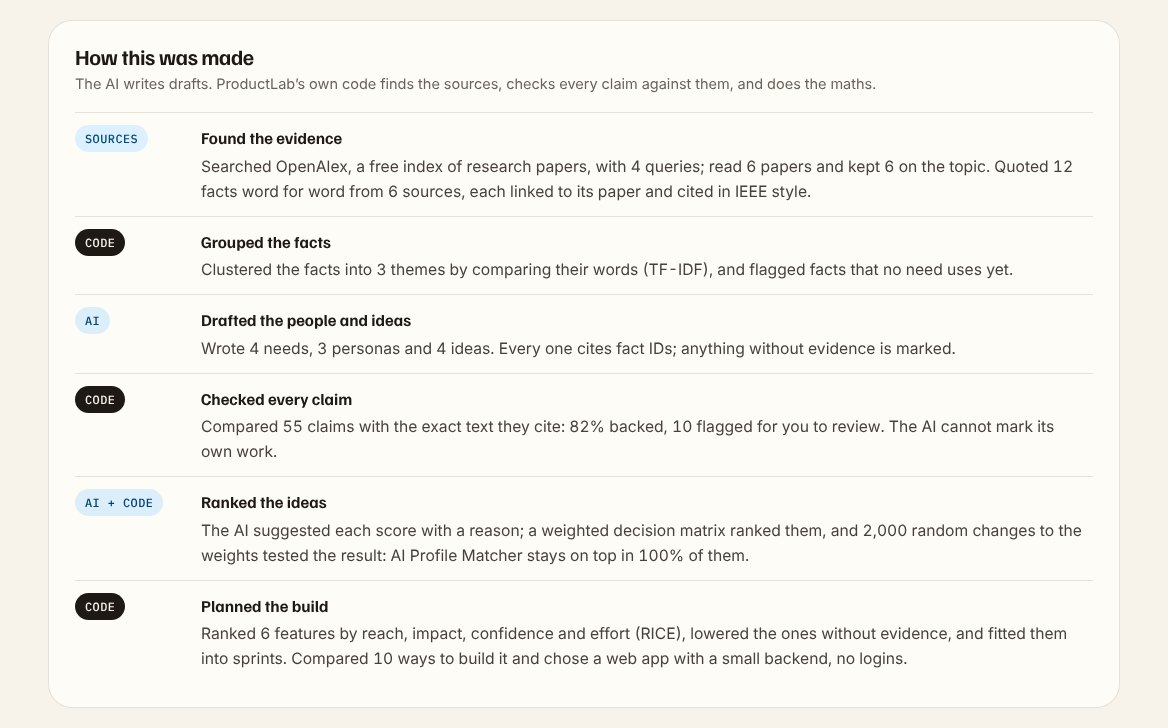
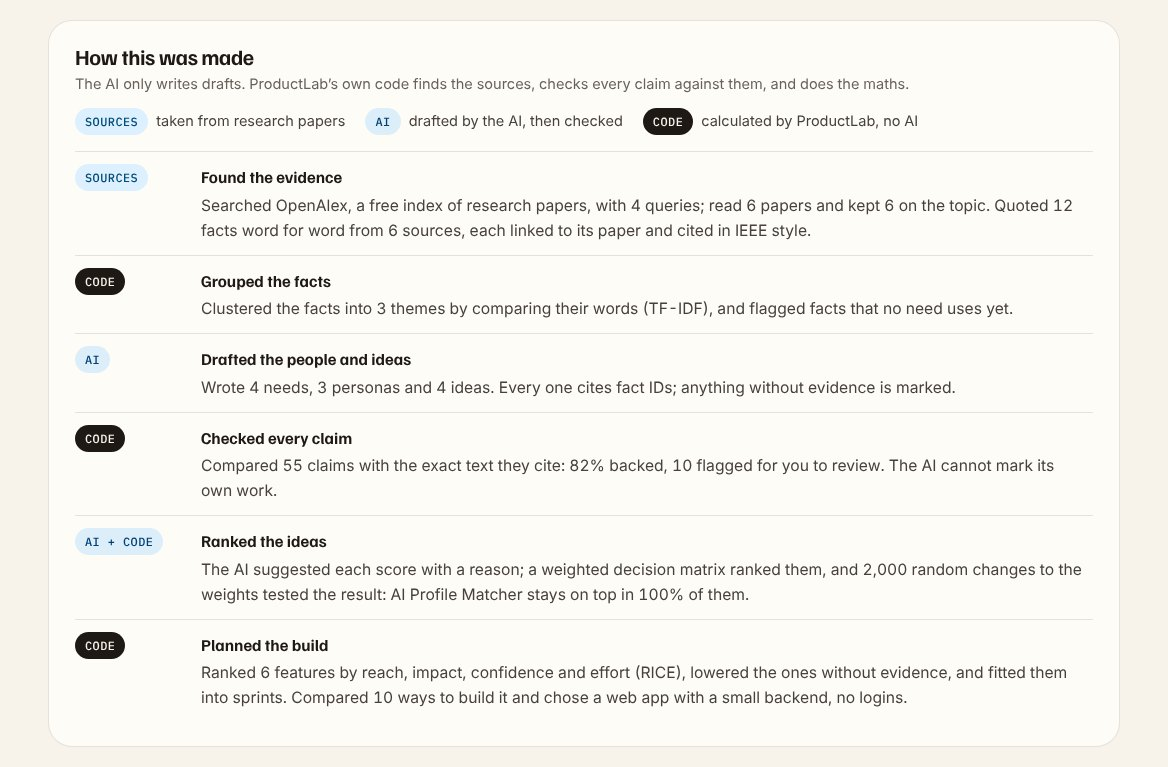
README: clearer How this was made, drop UI design notes; add a label key to the panel

diff --git a/index.html b/index.html
@@ -11,48 +11,48 @@
   <link rel="preconnect" href="https://api.fontshare.com" crossorigin>
   <link rel="stylesheet" href="https://api.fontshare.com/v2/css?f[]=switzer@400,500,600,700&display=swap">
   <link rel="stylesheet" href="https://fonts.googleapis.com/css2?family=Familjen+Grotesk:wght@500;600;700&family=IBM+Plex+Mono:wght@400;500&display=swap">
-  <link rel="stylesheet" href="css/styles.css?v=20261118c">
+  <link rel="stylesheet" href="css/styles.css?v=20261118d">
 </head>
 <body>
   <a class="skip" href="#main">Skip to content</a>
   <div id="app" class="app"><noscript>ProductLab AI needs JavaScript enabled.</noscript></div>
 
   <!-- Engine (shared with the command-line tool and unit tests) -->
-  <script src="js/engine/text.js?v=20261118c"></script>
-  <script src="js/engine/evidence.js?v=20261118c"></script>
-  <script src="js/engine/cluster.js?v=20261118c"></script>
-  <script src="js/engine/ideation.js?v=20261118c"></script>
-  <script src="js/engine/decision.js?v=20261118c"></script>
-  <script src="js/engine/planning.js?v=20261118c"></script>
-  <script src="js/engine/report.js?v=20261118c"></script>
-  <script src="js/app/config.js?v=20261118c"></script>
-  <script src="js/engine/llm.js?v=20261118c"></script>
-  <script src="js/engine/experiment.js?v=20261118c"></script>
-  <script src="js/engine/research.js?v=20261118c"></script>
-  <script src="js/engine/autopilot.js?v=20261118c"></script>
+  <script src="js/engine/text.js?v=20261118d"></script>
+  <script src="js/engine/evidence.js?v=20261118d"></script>
+  <script src="js/engine/cluster.js?v=20261118d"></script>
+  <script src="js/engine/ideation.js?v=20261118d"></script>
+  <script src="js/engine/decision.js?v=20261118d"></script>
+  <script src="js/engine/planning.js?v=20261118d"></script>
+  <script src="js/engine/report.js?v=20261118d"></script>
+  <script src="js/app/config.js?v=20261118d"></script>
+  <script src="js/engine/llm.js?v=20261118d"></script>
+  <script src="js/engine/experiment.js?v=20261118d"></script>
+  <script src="js/engine/research.js?v=20261118d"></script>
+  <script src="js/engine/autopilot.js?v=20261118d"></script>
 
   <!-- Case studies -->
-  <script src="js/data/pcos.js?v=20261118c"></script>
-  <script src="js/data/foodwaste.js?v=20261118c"></script>
+  <script src="js/data/pcos.js?v=20261118d"></script>
+  <script src="js/data/foodwaste.js?v=20261118d"></script>
 
   <!-- Application -->
-  <script src="js/app/util.js?v=20261118c"></script>
-  <script src="js/app/store.js?v=20261118c"></script>
-  <script src="js/app/components.js?v=20261118c"></script>
-  <script src="js/app/theme.js?v=20261118c"></script>
-  <script src="js/app/figures.js?v=20261118c"></script>
-  <script src="js/app/motion.js?v=20261118c"></script>
-  <script src="js/app/guide.js?v=20261118c"></script>
-  <script src="js/views/core.js?v=20261118c"></script>
-  <script src="js/views/start.js?v=20261118c"></script>
-  <script src="js/views/story.js?v=20261118c"></script>
-  <script src="js/views/evidence.js?v=20261118c"></script>
-  <script src="js/views/discover.js?v=20261118c"></script>
-  <script src="js/views/ideate.js?v=20261118c"></script>
-  <script src="js/views/evaluate.js?v=20261118c"></script>
-  <script src="js/views/build.js?v=20261118c"></script>
-  <script src="js/views/report.js?v=20261118c"></script>
-  <script src="js/views/study.js?v=20261118c"></script>
-  <script src="js/app/main.js?v=20261118c"></script>
+  <script src="js/app/util.js?v=20261118d"></script>
+  <script src="js/app/store.js?v=20261118d"></script>
+  <script src="js/app/components.js?v=20261118d"></script>
+  <script src="js/app/theme.js?v=20261118d"></script>
+  <script src="js/app/figures.js?v=20261118d"></script>
+  <script src="js/app/motion.js?v=20261118d"></script>
+  <script src="js/app/guide.js?v=20261118d"></script>
+  <script src="js/views/core.js?v=20261118d"></script>
+  <script src="js/views/start.js?v=20261118d"></script>
+  <script src="js/views/story.js?v=20261118d"></script>
+  <script src="js/views/evidence.js?v=20261118d"></script>
+  <script src="js/views/discover.js?v=20261118d"></script>
+  <script src="js/views/ideate.js?v=20261118d"></script>
+  <script src="js/views/evaluate.js?v=20261118d"></script>
+  <script src="js/views/build.js?v=20261118d"></script>
+  <script src="js/views/report.js?v=20261118d"></script>
+  <script src="js/views/study.js?v=20261118d"></script>
+  <script src="js/app/main.js?v=20261118d"></script>
 </body>
 </html>

diff --git a/js/app/components.js b/js/app/components.js
@@ -442,7 +442,10 @@
       rows.push(['Code', 'Planned the build', 'Ranked ' + n(p.features.length, 'feature', 'features') + ' by reach, impact, confidence and effort (RICE), lowered the ones without evidence, and fitted them into sprints. Compared ' + PL.planning.WAYS_COUNT + ' ways to build it and chose ' + ways.chosen.name.charAt(0).toLowerCase() + ways.chosen.name.slice(1) + '.']);
     }
     if (!rows.length) return '';
-    return '<section class="howmade"><h2>How this was made</h2><p class="muted small">The AI writes drafts. ProductLab\u2019s own code finds the sources, checks every claim against them, and does the maths.</p><ol>' +
+    return '<section class="howmade"><h2>How this was made</h2><p class="muted small">The AI only writes drafts. ProductLab\u2019s own code finds the sources, checks every claim against them, and does the maths.</p>' +
+      '<p class="howmade-key small">' + [['Sources', 'sources', 'taken from research papers'], ['AI', 'ai', 'drafted by the AI, then checked'], ['Team', 'team', 'written by a person'], ['Code', 'code', 'calculated by ProductLab, no AI']]
+        .filter((k) => rows.some((r) => r[0].split(' + ').map((x) => x.toLowerCase()).includes(k[1])))
+        .map((k) => '<span class="key-item"><span class="who who-' + k[1] + '">' + k[0] + '</span> ' + k[2] + '</span>').join('') + '</p><ol>' +
       rows.map((r) => '<li><span class="who who-' + r[0].replace(/[^a-z]/gi, '').toLowerCase() + '">' + esc(r[0]) + '</span><div><b>' + esc(r[1]) + '</b><p>' + esc(r[2]) + '</p></div></li>').join('') + '</ol></section>';
   }
 

diff --git a/css/styles.css b/css/styles.css
@@ -1106,3 +1106,5 @@ input:focus, select:focus, textarea:focus { border-color: var(--think); box-shad
 .howmade li { grid-template-columns: 112px 1fr; }
 .home-hero h1.hook { font-size: clamp(2.2rem, 4.2vw, 3.5rem); max-width: 19ch; }
 textarea::placeholder, input::placeholder { color: oklch(62% 0.014 65); }
+.howmade-key { display: flex; flex-wrap: wrap; align-items: center; gap: 8px 20px; margin: 12px 0 0; color: var(--ink-2); }
+.key-item { display: inline-flex; align-items: center; gap: 8px; white-space: nowrap; }

diff --git a/README.md b/README.md
@@ -46,24 +46,22 @@ Projects are saved in the browser. Use **Export** on the Projects page to back t
 
 The app opens on **Home**, written for people with no background in product design or research:
 
-- **The problem box.** One promise in two sentences, with the **What problem are you trying to solve?** box right below it. It is always blank when you arrive, and the ProductLab logo always brings you back here. Three examples to try, and the **Find users, ideas and a plan** button. Search options are folded away.
+- **The problem box.** *What problem are you trying to solve?* It is always blank when you arrive, and the ProductLab logo always brings you back here. Three examples to try, and the **Find users, ideas and a plan** button.
 - **Your work.** The project being made right now, with the step it is on, and your recent projects, so you can carry on with one or start something new.
-- **Six steps, each with one clear question**, in the step's own colour, plus the claim check that follows.
+- **Six steps, each with one clear question**, plus the claim check that follows.
 - **Questions?** Short answers on expertise, what you need to start, made-up facts and where work is saved, and plain definitions of every term, all folded until opened.
 
 Text that is not a problem (for example keyboard mashing, or a phrase repeated over and over) is caught before any research is done.
 
-## Summary first, details on demand
+## The six steps
 
-Each of the six steps asks one plain question (*What do we already know? Who does this affect, and what do they need? How could we solve it? Which idea should we build? What will it take to build? Can we trust it?*) and opens on a short **summary**: one headline, up to three points and a button to the next step.
-
-Everything else (charts, tables, sources and every editable field) sits in a folded **All the details and editing tools** section. The app remembers which steps you have opened, so experienced users see the full tools straight away, and links that point at a specific table open it directly.
+Each step answers one plain question: *What do we already know? Who does this affect, and what do they need? How could we solve it? Which idea should we build? What will it take to build? Can we trust it?* It opens with a short answer, and the full tools (charts, tables, sources and every editable field) are under **All the details and editing tools**.
 
 ## Start from a problem statement
 
 Type a problem in one or two sentences, for example *"People save posts on Instagram, YouTube and X but can never find them again"*, and click **Find users, ideas and a plan**.
 
-The run gets its own page: **Working on it**, with three bouncing dots while work is being done, and a circle for each step that fills as it finishes. You can leave the page; the run keeps going, the sidebar shows *Making your project…*, and Home shows its progress under **Your work**. In one to two minutes ProductLab produces:
+The run has its own page that shows each step as it finishes. You can leave it; the run keeps going, and Home shows its progress under **Your work**. In one to two minutes ProductLab produces:
 
 | Step | Output | Where it comes from |
 |---|---|---|
@@ -115,30 +113,29 @@ Each way comes with why it fits, effort, cost, languages, what you would use lay
 
 ## How this was made: more than a chatbot
 
-A chatbot answers from memory. ProductLab uses the language model only to draft. Its own code finds the sources, checks every claim against them and does the maths.
+A common question is: *isn't this just ChatGPT with an API key?* It isn't. A chatbot writes everything from memory, so you cannot tell which parts are real. In ProductLab, the language model only writes **drafts**. Finding the sources, checking the AI's statements against them and doing all the calculations are done by ProductLab's own code, which gives the same result every time for the same input.
 
-The **How this was made** panel (on the results page and the Overview) shows this with each project's real numbers. Every row is labelled **Sources**, **Code**, **AI** or **Team**:
+To make this visible, every project shows a **How this was made** panel (at the end of the results page, and on the Overview). It lists each stage of the work, labels who did it, and gives the real numbers for that project. The labels mean:
 
-- **Sources.** The papers searched, read and kept, and the facts quoted word for word.
-- **Code.** How the facts were clustered into themes.
-- **AI or Team.** Who drafted the needs, personas and ideas.
-- **Code.** How many claims the citation guard checked, and how many it flagged.
-- **AI or Team, plus code.** Who suggested the scores, and how robust the ranking is across 2,000 random weight changes.
-- **Code.** How the features were prioritised and which way to build it was chosen.
+| Label | Who did the work |
+|---|---|
+| **Sources** | Taken directly from published research papers; nothing is written by the AI |
+| **AI** | Drafted by the language model (Gemini), and always checked afterwards |
+| **Team** | Written by a person (the two sample projects were written by hand, so they show *Team*) |
+| **Code** | Calculated by ProductLab's own program, with no AI involved |
 
-## Colours and type
+The panel has six rows. Here is what each one tells you, with the numbers from a real run on *"People in small towns do not know which government schemes they qualify for"*:
 
-ProductLab follows a "warm page, cool accent" rule: a warm sand page with one cool sea-blue accent for buttons and actions, so the accent stands out without shouting.
+| Row | Label | What it tells you | Example from the real run |
+|---|---|---|---|
+| Found the evidence | Sources | How many paper searches were made, how many papers were read and kept, and how many facts were copied word for word from them | 4 searches; 6 papers read and kept; 12 facts quoted from 6 sources |
+| Grouped the facts | Code | How many themes the facts fall into. The program groups facts that use similar words, a method called TF-IDF | 3 themes |
+| Drafted the people and ideas | AI or Team | How many needs, personas and ideas were written. Each one must point to the facts it is based on | 4 needs, 3 personas and 4 ideas, written by the AI |
+| Checked every claim | Code | How many statements the citation guard compared with the exact facts they cite, what share are backed, and how many need a person to look at them | 55 statements checked; 82% backed; 10 flagged for review |
+| Ranked the ideas | AI or Team, plus Code | Who suggested the scores, and how safe the winner is. The program ranks the ideas, then changes the importance of each criterion at random 2,000 times to see whether the same idea still wins | The AI suggested the scores; *AI Profile Matcher* won in 100% of the 2,000 trials |
+| Planned the build | Code | How many features were put in order of value for effort (a method called RICE), and which way to build it was chosen from the ten | 6 features planned; built as a web app with a small backend and no logins |
 
-Each step has its own colour, used for its number in the sidebar, its page header and its summary card: **1 Research** blue, **2 People** terracotta, **3 Ideas** ochre, **4 Decide** plum, **5 Build** moss and **6 Check** teal. All colours are built in OKLCH at equal lightness, so no step looks louder than another, and all text meets a contrast of at least 4.5:1.
-
-Type: Familjen Grotesk for headings, Switzer for text and IBM Plex Mono for numbers and IDs. Other details:
-
-- borders are see-through (`rgb(... / 0.12)`), so they blend on any surface;
-- nested corners are concentric (the inner radius is the outer radius minus the padding);
-- graphics are flat, and scrolling bars fade at their edges.
-
-Each project's **Story** takes on a theme that suits its subject, picked from the project's domain, name and problem text: Bloom (health and care), Harvest (food and the planet), Signal (digital life), Campus (learning and students) or Tide (water, cities and travel). A different theme can be chosen under *Story theme* on the project Overview. Every orb, liquid and chart accent reads its colour from a CSS variable, so a theme re-tints the whole Story without touching the markup. Chart category colours stay fixed and were checked for colour-blind separation.
+In short: **the AI suggests, the code checks and calculates, and you decide.** Every number in the panel comes from the project itself, so it can be verified.
 
 ## Story view
 
@@ -156,7 +153,7 @@ Each project's **Story** takes on a theme that suits its subject, picked from th
 | Build | Stack slabs, value against effort, roadmap | The chosen way to build it, layer by layer; quick wins; sprints to a first release |
 | Trust | Claim dots | Every claim, coloured by what the citation guard found |
 
-The same graphics appear on the matching workflow screens, each with a one-line caption that says what it shows. Hover any mark for its exact value. Reduced-motion settings turn the animation off.
+The same graphics appear on the matching step pages, each with a one-line caption that says what it shows. Hover any mark for its exact value.
 
 ## What it does
 
